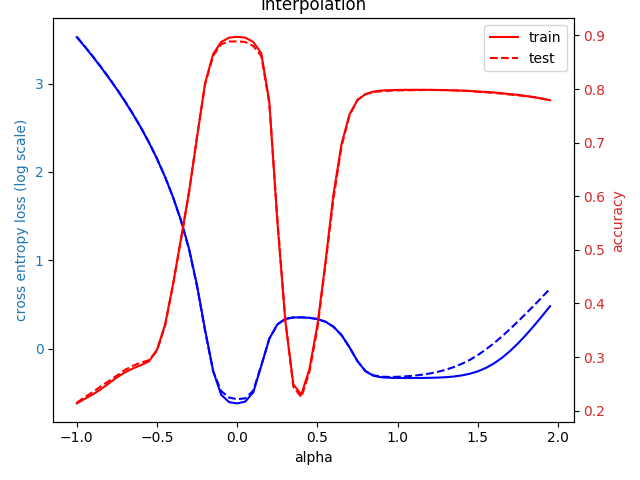
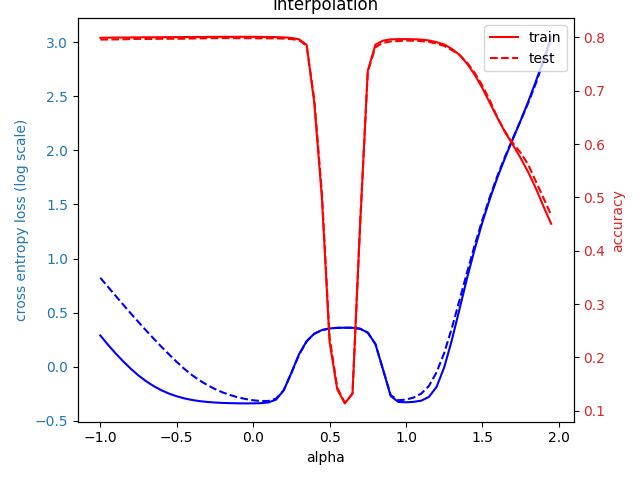
interpolation c2

diff --git a/hw1/hw1_3/interpolation/mnist.py b/hw1/hw1_3/interpolation/mnist.py
@@ -2,7 +2,6 @@ import tensorflow as tf
 import numpy as np
 import sys
 import os
-os.environ["CUDA_VISIBLE_DEVICES"] = str(sys.argv[3])
 config = tf.ConfigProto()
 # config.gpu_options.per_process_gpu_memory_fraction = 0.33
 config.gpu_options.allow_growth = True
@@ -57,6 +56,7 @@ def main():
     if len(sys.argv) != 4:
         print ("usage: python3 mnist.py <batch_size> <learning rate> <gpu ID>")
         sys.exit()
+    os.environ["CUDA_VISIBLE_DEVICES"] = str(sys.argv[3])
 
     # load data
     train_x, train_y = load_mnist()
@@ -93,7 +93,7 @@ def main():
 
         sess.run(tf.global_variables_initializer())
 
-        for step in range(steps_per_epoch*20):
+        for step in range(steps_per_epoch*40):
             curEpoch = 1+step//steps_per_epoch
             batch_x, batch_y = gen.__next__()
             feed_dict = {mnist_in: batch_x, mnist_out: batch_y}

diff --git a/hw1/hw1_3/interpolation/interpolate.py b/hw1/hw1_3/interpolation/interpolate.py
@@ -3,7 +3,6 @@ import numpy as np
 import pickle
 import sys
 import os
-os.environ["CUDA_VISIBLE_DEVICES"] = str(sys.argv[3])
 config = tf.ConfigProto()
 # config.gpu_options.per_process_gpu_memory_fraction = 0.33
 config.gpu_options.allow_growth = True
@@ -151,6 +150,7 @@ def main():
     if len(sys.argv) != 5:
         print ("usage: python3 interpolate.py <model_1 directory> <model_2 directory> <gpu ID> <output filename>")
         sys.exit()
+    os.environ["CUDA_VISIBLE_DEVICES"] = str(sys.argv[3])
     
     model_1 = sys.argv[1]
     model_2 = sys.argv[2]

diff --git a/hw1/hw1_3/interpolation/plot.py b/hw1/hw1_3/interpolation/plot.py
@@ -6,10 +6,10 @@ import math
 import sys
 import os
 
-# with open('batchsize_comparison/result.pkl', 'rb') as f:
-#     result = pickle.load(f)
-# with open('lr_comparison/result.pkl', 'rb') as f:
-#     result = pickle.load(f)
+if len(sys.argv) != 2:
+    print ('usage: python3 plot.py <pickle file name>')
+    sys.exit()
+
 with open(sys.argv[1], 'rb') as f:
     result = pickle.load(f)
 
